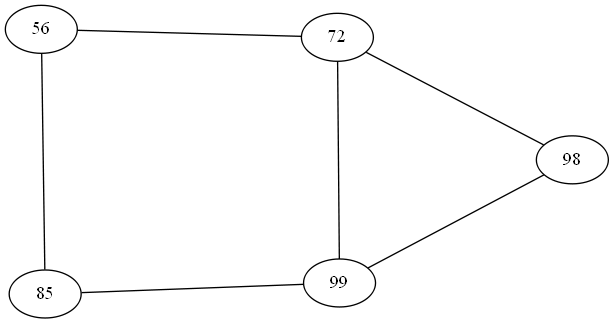
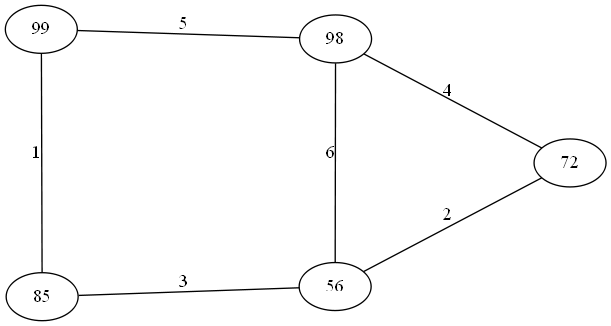
Atualização 13/12

diff --git a/src/Grafo.cpp b/src/Grafo.cpp
@@ -174,6 +174,15 @@ No *Grafo::getNo(int id) //* Funcionando
     return nullptr;
 }
 
+float Grafo::getAresta(int idSaida, int idAlvo){
+    No *auxNo = this->getPrimeiroNo();
+    for( auxNo; auxNo->getId()!= idSaida ; auxNo = auxNo->getProxNo()){}
+    for(Aresta * auxAresta = auxNo->getPrimeiraAresta(); auxAresta != nullptr; auxAresta = auxAresta->getProxAresta()){
+        if(auxAresta->getAlvoId()==idAlvo){
+            return auxAresta->getpeso();
+            }
+        }
+}
 
 // Fazer _ Booleano -> verifica se há um caminho entre dois nós passados por parâmetro 
 bool Grafo::buscaProfundidade(int initialId, int targetId){ //TODO: fazer função
@@ -245,7 +254,7 @@ void Grafo::auxGeraGrafoDot(ofstream &output_file){ //* Funcionando
                 output_file << "\n" << "    " << auxNo->getId() << " -> ";
                 output_file << " " << auxAresta->getAlvoId();
                 if(peso_aresta){
-                    output_file << " " << "[label=\" " << this->getPesoAresta() << "\"]";
+                    output_file << " " << "[label=\" " << this->getAresta(auxNo->getId(), auxAresta->getAlvoId()) << "\"]";
                 }
         }
     }
@@ -260,7 +269,7 @@ void Grafo::auxGeraGrafoDot(ofstream &output_file){ //* Funcionando
                 output_file << "\n" << "    " << auxNo->getId() << " -- ";
                 output_file << " " << auxAresta->getAlvoId();
                 if(peso_aresta){
-                    output_file << " " << "[label=\" " << this->getPesoAresta() << "\"]";
+                    output_file << " " << "[label=\" " << this->getAresta(auxNo->getId(), auxAresta->getAlvoId()) << "\"]";
                 }
         }
     }

diff --git a/main.cpp b/main.cpp
@@ -118,7 +118,7 @@ void selecionar(int selecao, Grafo* graph, ofstream& output_file){
 
     switch (selecao) {
 
-        //Inteseção
+        //Interseção
         case 1:{
 
             break;
@@ -191,7 +191,6 @@ int main(int argc, char const *argv[]) {
             Grafo *grafo = leitura(arq_grafo, direcionado, peso_aresta, peso_vertice); //Chama a função de leitura 
             grafo->geraListaAdjacencia("listaDeAdjacencia.txt"); //Função de criação de uma lista de adjacência para visualização
             grafo->geraGrafoDot("testedot.dot");
-            cout << grafo->procurarNo(2);
         }
         else{
             cout << "Erro na leitura do arquivo";

diff --git a/include/Grafo.h b/include/Grafo.h
@@ -35,6 +35,7 @@ public:
     bool getPesoNo();
     No* getPrimeiroNo();
     No* getUltimoNo();
+    float getAresta(int idSaida, int idAlvo);
 
     //Outras funções necessárias
     void inserirNo(int id);
